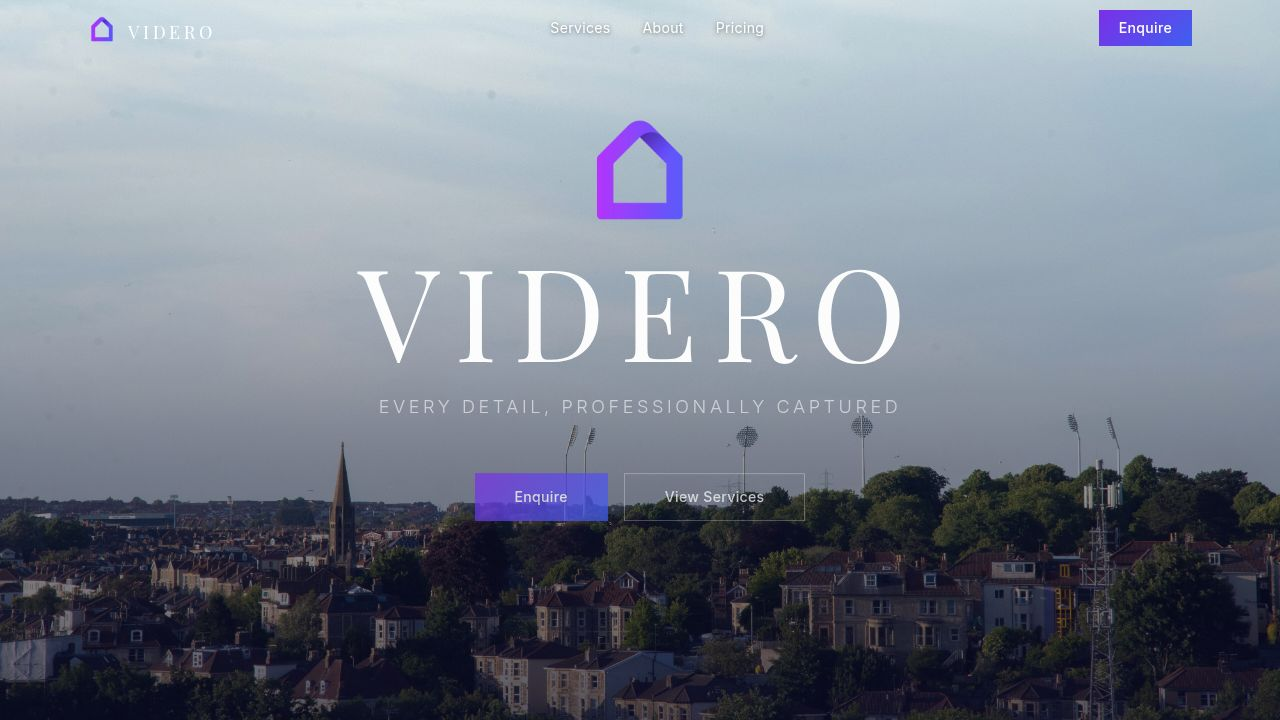
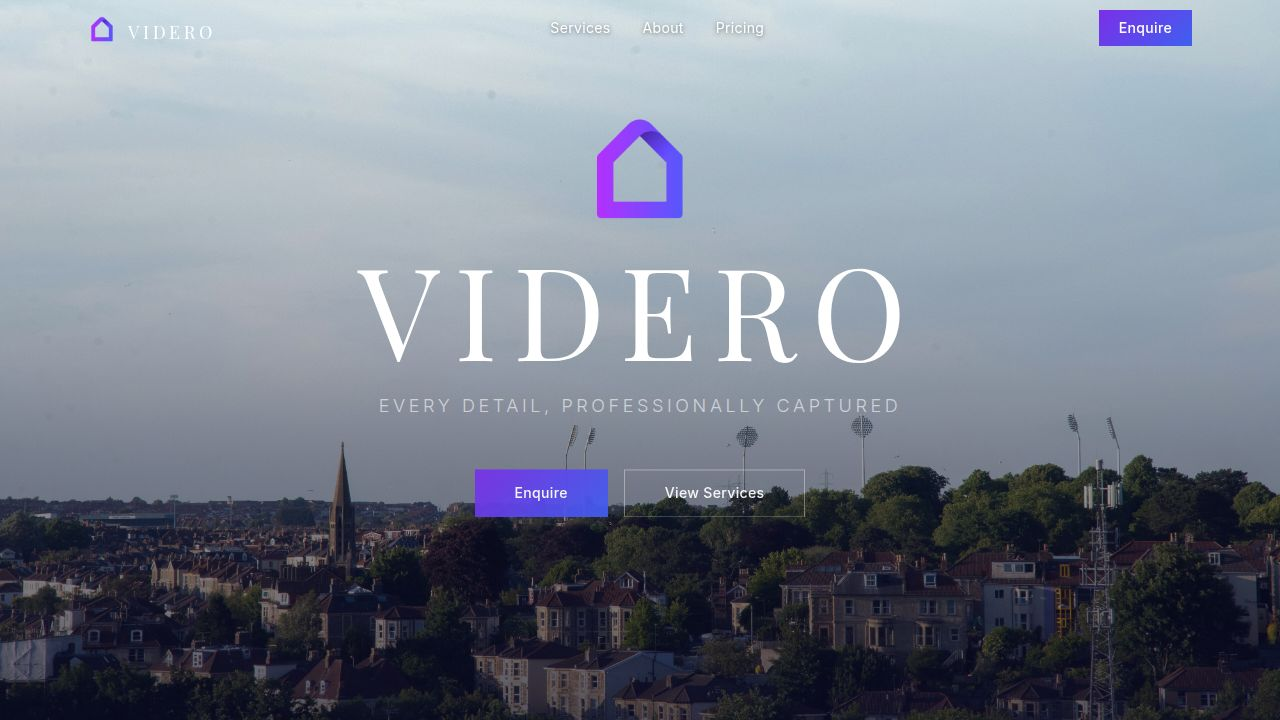
Restored to '310d8b87f8bc54ca3cacc459223c4fb8f815381e'
Replit-Restored-To: 310d8b87f8bc54ca3cacc459223c4fb8f815381e

diff --git a/artifacts/vantage/src/App.tsx b/artifacts/vantage/src/App.tsx
@@ -11,10 +11,6 @@ import Pricing from "@/pages/Pricing";
 import Navbar from "@/components/layout/Navbar";
 import Footer from "@/components/layout/Footer";
 import { WhatsAppButton } from "@/components/ui/WhatsAppButton";
-import PromoBanner from "@/components/layout/PromoBanner";
-import { BannerProvider } from "@/context/BannerContext";
-
-const PROMO_BANNER_ENABLED = true;
 
 const queryClient = new QueryClient();
 
@@ -47,19 +43,16 @@ function App() {
   return (
     <QueryClientProvider client={queryClient}>
       <TooltipProvider>
-        <BannerProvider enabled={PROMO_BANNER_ENABLED}>
-          <WouterRouter base={import.meta.env.BASE_URL.replace(/\/$/, "")}>
-            <div className="flex flex-col min-h-[100dvh] bg-background text-foreground font-sans">
-              <PromoBanner />
-              <Navbar />
-              <main className="flex-1 w-full">
-                <Router />
-              </main>
-              <Footer />
-            </div>
-            <WhatsAppButton />
-          </WouterRouter>
-        </BannerProvider>
+        <WouterRouter base={import.meta.env.BASE_URL.replace(/\/$/, "")}>
+          <div className="flex flex-col min-h-[100dvh] bg-background text-foreground font-sans">
+            <Navbar />
+            <main className="flex-1 w-full">
+              <Router />
+            </main>
+            <Footer />
+          </div>
+          <WhatsAppButton />
+        </WouterRouter>
         <Toaster />
       </TooltipProvider>
     </QueryClientProvider>

diff --git a/artifacts/vantage/src/components/layout/Navbar.tsx b/artifacts/vantage/src/components/layout/Navbar.tsx
@@ -1,22 +1,19 @@
 import { useState, useEffect } from "react";
 import { Link } from "wouter";
-import { useBanner } from "@/context/BannerContext";
 
 export default function Navbar() {
   const [open, setOpen] = useState(false);
   const [atTop, setAtTop] = useState(true);
-  const { bannerHeight } = useBanner();
 
   useEffect(() => {
-    const onScroll = () => setAtTop(window.scrollY < 8 + bannerHeight);
+    const onScroll = () => setAtTop(window.scrollY < 8);
     window.addEventListener("scroll", onScroll, { passive: true });
     return () => window.removeEventListener("scroll", onScroll);
-  }, [bannerHeight]);
+  }, []);
 
   return (
     <header
-      style={{ top: bannerHeight }}
-      className={`fixed z-50 w-full transition-all duration-400 ${
+      className={`fixed top-0 z-50 w-full transition-all duration-400 ${
         atTop
           ? "bg-transparent border-b border-transparent"
           : "bg-white border-b border-border shadow-sm"